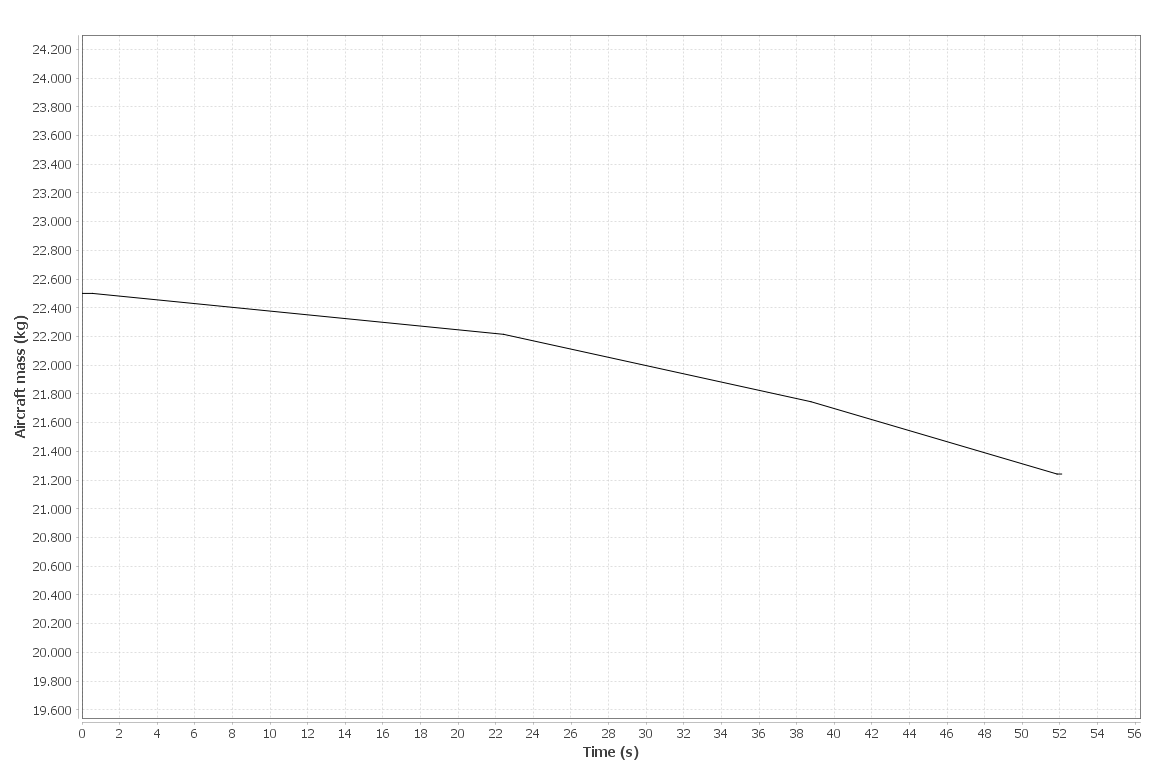
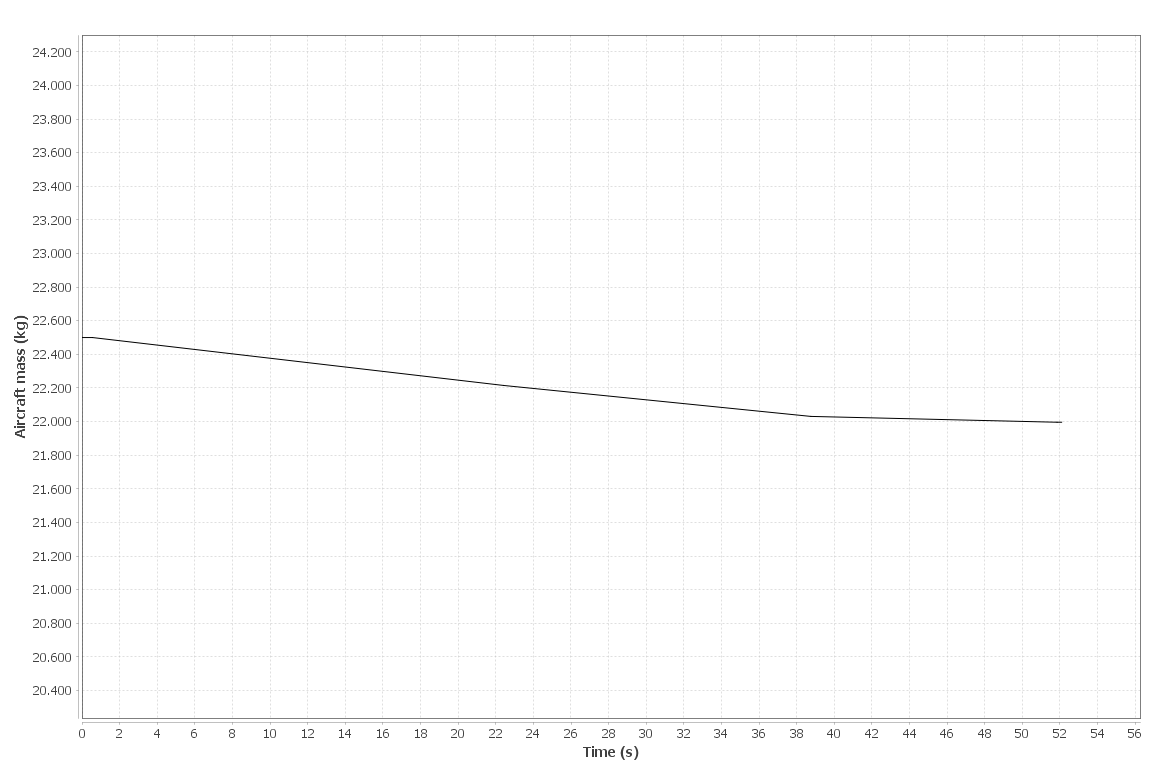
Error fixed in JPADCore_v2 inside ACPerformanceManger.

diff --git a/JPADCore_v2/src/analyses/ACPerformanceManager.java b/JPADCore_v2/src/analyses/ACPerformanceManager.java
@@ -5174,8 +5174,8 @@ public class ACPerformanceManager implements IACPerformanceManger {
 			_massList.add(_maximumTakeOffMass);
 			_massList.add(_maximumTakeOffMass);
 			_massList.add(_maximumTakeOffMass.minus(_fuelUsedList.get(2)));
-			_massList.add(_massList.get(_massList.size()-1).minus(_fuelUsedList.get(3)));
-			_massList.add(_massList.get(_massList.size()-1).minus(_fuelUsedList.get(4)));
+			_massList.add(_maximumTakeOffMass.minus(_fuelUsedList.get(3)));
+			_massList.add(_maximumTakeOffMass.minus(_fuelUsedList.get(4)));
 			_massList.add(_massList.get(_massList.size()-1));
 			
 			_endMissionMass = _massList.get(_massList.size()-1);
